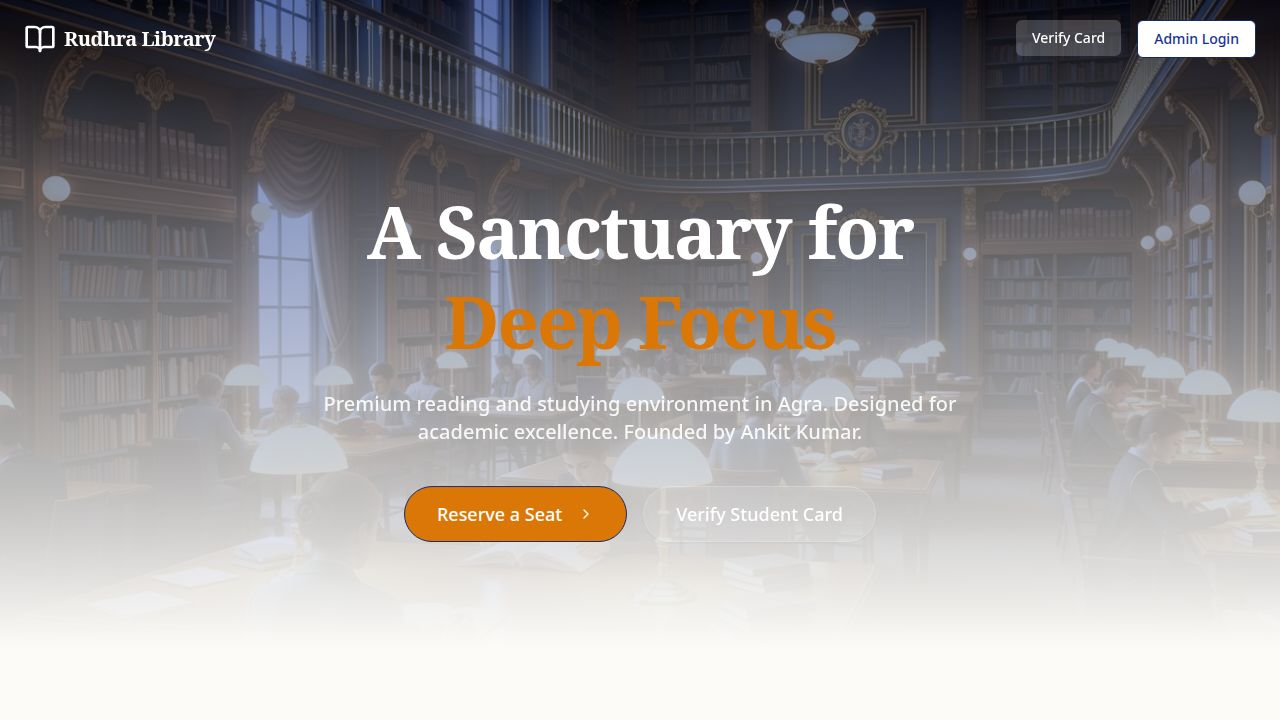
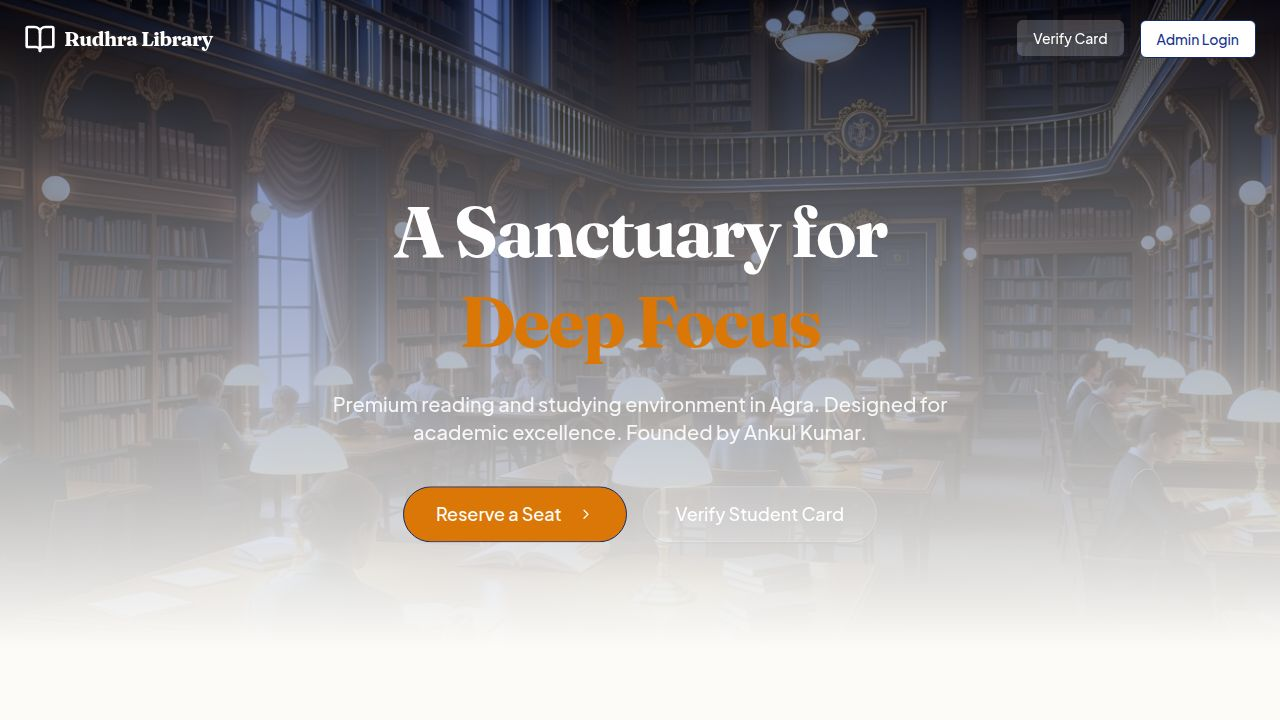
Update owner and contact information across the website and documents
Update the owner's name from Ankit Kumar to Ankul Kumar and consolidate contact phone numbers to a single number across the landing page, footer, PDF generator, student detail page, and project documentation.

Replit-Commit-Author: Agent
Replit-Commit-Session-Id: d14f33bc-70fb-40f2-9460-fd0f66f30ea5
Replit-Commit-Checkpoint-Type: full_checkpoint
Replit-Commit-Event-Id: 9aa6daeb-048f-407f-b3dc-eb22f966e070
Replit-Commit-Screenshot-Url: https://storage.googleapis.com/screenshot-production-us-central1/e03603b7-12fa-43b4-888b-b48c76f28a23/d14f33bc-70fb-40f2-9460-fd0f66f30ea5/AlIkGMM
Replit-Helium-Checkpoint-Created: true

diff --git a/artifacts/rudhra-library/src/components/site-footer.tsx b/artifacts/rudhra-library/src/components/site-footer.tsx
@@ -10,7 +10,7 @@ export function SiteFooter() {
             A premium reading and studying environment designed for deep focus and academic excellence.
           </p>
           <div className="text-sm font-medium">
-            Owner: <span className="text-primary">Ankit Kumar</span>
+            Owner: <span className="text-primary">Ankul Kumar</span>
           </div>
         </div>
         
@@ -19,11 +19,7 @@ export function SiteFooter() {
           <ul className="space-y-2 text-sm text-muted-foreground">
             <li className="flex items-center gap-2">
               <Phone className="h-4 w-4" />
-              <a href="tel:[phone redacted]" className="hover:text-primary transition-colors">[phone redacted]</a>
-            </li>
-            <li className="flex items-center gap-2">
-              <Phone className="h-4 w-4" />
-              <a href="tel:[phone redacted]" className="hover:text-primary transition-colors">[phone redacted]</a>
+              <a href="tel:[phone redacted]" className="hover:text-primary transition-colors">[phone redacted]</a>
             </li>
           </ul>
         </div>

diff --git a/artifacts/rudhra-library/src/pages/landing.tsx b/artifacts/rudhra-library/src/pages/landing.tsx
@@ -79,7 +79,7 @@ export default function Landing() {
             </h1>
             <p className="text-lg md:text-xl text-white/90 font-medium max-w-2xl mx-auto">
               Premium reading and studying environment in Agra. Designed for academic excellence.
-              Founded by Ankit Kumar.
+              Founded by Ankul Kumar.
             </p>
             <div className="flex flex-col sm:flex-row items-center justify-center gap-4 pt-4">
               <Button size="lg" className="w-full sm:w-auto bg-secondary text-secondary-foreground hover:bg-secondary/90 text-lg px-8 h-14 rounded-full">
@@ -232,8 +232,7 @@ export default function Landing() {
                     <div>
                       <div className="font-bold text-lg mb-1 text-white">Phone</div>
                       <div className="flex flex-col space-y-1">
-                        <a href="tel:[phone redacted]" className="text-primary-foreground/80 hover:text-white transition-colors">[phone redacted]</a>
-                        <a href="tel:[phone redacted]" className="text-primary-foreground/80 hover:text-white transition-colors">[phone redacted]</a>
+                        <a href="tel:[phone redacted]" className="text-primary-foreground/80 hover:text-white transition-colors">[phone redacted]</a>
                       </div>
                     </div>
                   </div>
@@ -242,7 +241,7 @@ export default function Landing() {
               
               <div className="pt-8 border-t border-primary-foreground/20">
                 <div className="text-sm text-primary-foreground/80 mb-1">Owner & Founder</div>
-                <div className="text-xl font-serif font-bold text-white">Ankit Kumar</div>
+                <div className="text-xl font-serif font-bold text-white">Ankul Kumar</div>
               </div>
             </div>
             

diff --git a/artifacts/rudhra-library/src/lib/pdf-generator.ts b/artifacts/rudhra-library/src/lib/pdf-generator.ts
@@ -167,9 +167,9 @@ export async function generateStudentCard(student: Student) {
 
   doc.setTextColor(200, 200, 200);
   doc.setFontSize(8);
-  doc.text("Owner: Ankit Kumar", 10, height - 6);
+  doc.text("Owner: Ankul Kumar", 10, height - 6);
   doc.text(
-    "Phone: [phone redacted], [phone redacted]",
+    "Phone: [phone redacted]",
     width - 10,
     height - 6,
     { align: "right" },

diff --git a/artifacts/rudhra-library/src/pages/student-detail.tsx b/artifacts/rudhra-library/src/pages/student-detail.tsx
@@ -222,8 +222,8 @@ export default function StudentDetail() {
                   
                   {/* Footer */}
                   <div className="absolute bottom-0 w-full h-4 bg-slate-950 flex justify-between items-center px-2 text-[6px] md:text-[8px] text-slate-400">
-                    <span>Ankit Kumar</span>
-                    <span>[phone redacted]</span>
+                    <span>Ankul Kumar</span>
+                    <span>[phone redacted]</span>
                   </div>
                 </div>
               </CardContent>

diff --git a/replit.md b/replit.md
@@ -2,7 +2,7 @@
 
 ## Overview
 
-Rudhra Library is a premium study library website for the library owned by Ankit Kumar in Agra, Uttar Pradesh. The site has a public landing page, an admin dashboard for managing students and fees, a card verification page used at the library entrance, and downloadable PDF student ID cards.
+Rudhra Library is a premium study library website for the library owned by Ankul Kumar in Agra, Uttar Pradesh. The site has a public landing page, an admin dashboard for managing students and fees, a card verification page used at the library entrance, and downloadable PDF student ID cards.
 
 ## Stack
 
@@ -23,8 +23,8 @@ Rudhra Library is a premium study library website for the library owned by Ankit
 ## Domain
 
 - Library name: Rudhra Library
-- Owner: Ankit Kumar
-- Phone: [phone redacted], [phone redacted]
+- Owner: Ankul Kumar
+- Phone: [phone redacted]
 - Location: Agra, Uttar Pradesh (lat 27.0032965, lng 78.5823932)
 - Shifts: Morning, Afternoon, Evening, Night, Full Day
 